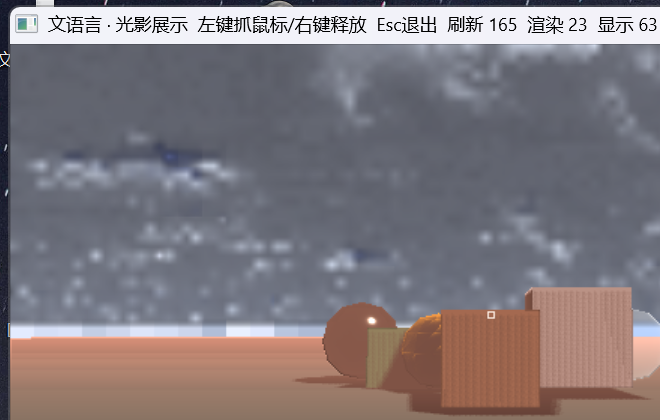
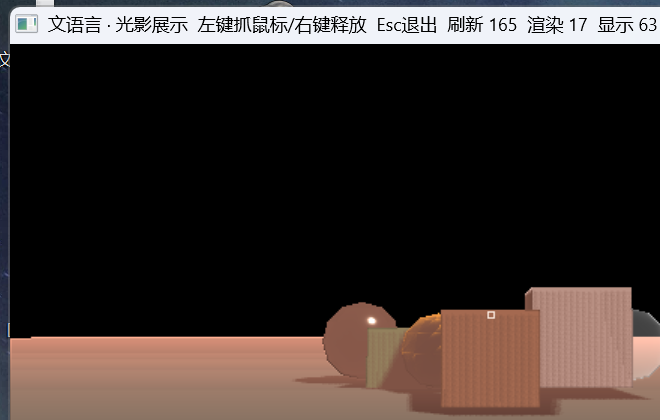
高层卷云体积化；双层云；帧缓冲显式清零；场景分块/平滑法线；152/154

diff --git a/wen.cpp b/wen.cpp
@@ -11320,8 +11320,8 @@ Interpreter::Interpreter() {
         }
         if (a.size() >= 5) full = truthy(a[4]);
         struct Atmo { string type="积云"; double cover=0.55, base=8, top=14, scale=0.13, wind=0.25, sun=1.0, fog=0.0;
-    double highCover=0.22, highBase=22, highTop=30, highScale=0.055;
-    int steps=8, res=6; } atmo;
+    double highCover=0.0, highBase=22, highTop=30, highScale=0.055;
+    int steps=6, res=9; } atmo;
         if (a.size() >= 7 && a[6].type == VT::Dict) {
             auto ad = needDict(a[6], "大气", line);
             auto pick = [&](const char* k, double& out) {
@@ -11688,7 +11688,7 @@ Interpreter::Interpreter() {
                     double d=(f*profile - 0.30)*3.2*atmo.highCover;
                     return std::max(0.0,std::min(1.0,d));
                 };
-                int hcw=std::max(1,w/16), hch=std::max(1,h/16);
+                int hcw=std::max(1,w/24), hch=std::max(1,h/24);
                 vector<unsigned char> hbuf((size_t)hcw*hch*4,0);
                 double htsec=std::chrono::duration<double>(std::chrono::steady_clock::now()-t0).count();
                 for (int cy=0;cy<hch;++cy) {
@@ -11701,7 +11701,7 @@ Interpreter::Interpreter() {
                         t0r=(atmo.highBase-cam.y)/rd.y; t1r=(atmo.highTop-cam.y)/rd.y;
                         if (t0r>t1r) std::swap(t0r,t1r);
                         t0r=std::max(0.05,t0r); if (t1r<=t0r) continue;
-                        int steps=3; double dt=(t1r-t0r)/steps;
+                        int steps=2; double dt=(t1r-t0r)/steps;
                         double T=1,cr=0,cg=0,cb=0;
                         for (int st=0;st<steps;++st) {
                             PVec p2=padd(cam,pmul(rd,t0r+(st+0.5)*dt));
@@ -11826,6 +11826,7 @@ Interpreter::Interpreter() {
                 pw.back[i+1] = (unsigned char)(pw.back[i+1]*(1-a) + mixc(1)*a);
                 pw.back[i+2] = (unsigned char)(pw.back[i+2]*(1-a) + mixc(0)*a);
             }
+            std::fill(pw.back.begin(), pw.back.end(), 0);
             zbuf.assign((size_t)w*h, 1e30);
             auto project=[&](PVec p, double& sx, double& sy, double& z)->bool{
                 PVec d=psub(p,cam); double zz=pdot(d,f); if(zz<=0.08) return false;

diff --git a/版本验证报告.md b/版本验证报告.md
@@ -1,6 +1,6 @@
 # 版本验证报告
 
-- 生成时间：2026-10-28 20:47:52
+- 生成时间：2026-10-28 21:09:28
 - 版本：`0.1.0-snapshot`
 - 测试：未运行
 
@@ -17,8 +17,8 @@
 可运行: 真
 ```
 
[1 lines of base64/hex data omitted]
-- 大小：6219331 字节
[1 lines of base64/hex data omitted]
+- 大小：6218819 字节
 
 ## 插件
 
